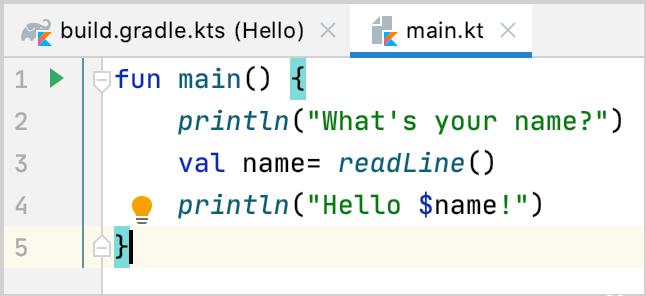
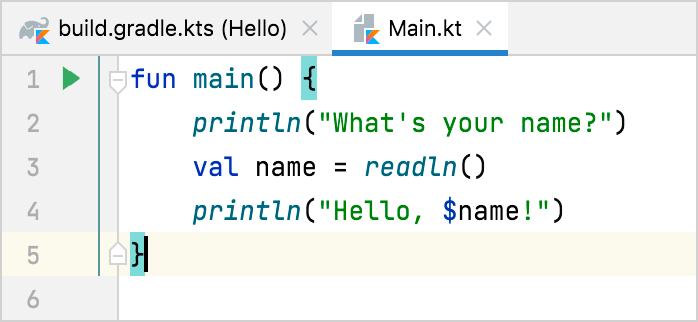
feat: replaced readline functions

diff --git a/docs/topics/competitive-programming.md b/docs/topics/competitive-programming.md
@@ -72,36 +72,28 @@ the straightforward imperative version of a solution to the problem can be writt
 
 ```kotlin
 fun main() {
-    var n = readLine()!!.toInt() // read integer from the input
+    var n = readln() // read integer from the input
     val reached = HashSet<Int>() // a mutable hash set 
     while (reached.add(n)) n = f(n) // iterate function f
     println(reached.size) // print answer to the output
 }
 ```
+{kotlin-min-compiler-version="1.6"}
 
-Note the use of Kotlin's 
-[null-assertion operator](null-safety.md#the-operator) `!!`
-after the [readLine()](https://kotlinlang.org/api/latest/jvm/stdlib/kotlin.io/read-line.html) function call. 
-Kotlin's `readLine()` function is defined to return a 
-[nullable type](null-safety.md#nullable-types-and-non-null-types)
-`String?` and returns `null` on the end of the input, which explicitly forces the developer to handle the 
-case of missing input.
- 
-There is no need to handle the case of misformatted input in competitive programming. 
-In competitive programming, an input format is always precisely specified and the actual input cannot deviate from 
-the input specification in the problem statement. That's what the null-assertion operator `!!` essentially does &mdash; 
-it asserts that the input string is present and throws an exception otherwise. Likewise, 
-the [String.toInt()](https://kotlinlang.org/api/latest/jvm/stdlib/kotlin.text/to-int.html) 
+There is no need to handle the case of misformatted input in competitive programming. An input format is always precisely
+specified in competitive programming, and the actual input cannot deviate from the input specification in the problem
+statement. That's why we're using Kotlin's `readln()` function that helps to assert that the input string is present and
+throws an exception otherwise. Likewise, the [String.toInt()](https://kotlinlang.org/api/latest/jvm/stdlib/kotlin.text/to-int.html)
 function throws an exception if the input string is not an integer.
-
+ 
 All online competitive programming events allow the use of pre-written code, so you can define your own library of 
 utility functions that are geared towards competitive programming to make your actual solution code somewhat easier 
 to read and write. You would then use this code as a template for your solutions. For example, you can define 
 the following helper functions for reading inputs in competitive programming:
 
 ```kotlin
-private fun readLn() = readLine()!!
-private fun readInt() = readLn().toInt()
+private fun readInt() = readln().toInt()
+private fun readStr() = readln().toString()
 // etc for other types you'd use in your solutions
 ```
 
@@ -121,9 +113,9 @@ takes a simple greedy algorithm to implement and it can be written using this st
 ```kotlin
 fun main() {
     // read input
-    val n = readLine()!!.toInt()
-    val s = readLine()!!
-    val fl = readLine()!!.split(" ").map { it.toInt() }
+    val n = readln().toInt()
+    val s = readln()
+    val fl = readln().split(" ").map { it.toInt() }
     // define local function f
     fun f(c: Char) = '0' + fl[c - '1']
     // greedily find first and last indices
@@ -139,6 +131,7 @@ fun main() {
     println(ans)
 }
 ```
+{kotlin-min-compiler-version="1.6"}
 
 In this dense code, in addition to collection transformations, you can see such handy Kotlin features as local functions
 and the [elvis operator](null-safety.md#elvis-operator) `?:`
@@ -151,9 +144,8 @@ To make reading the input in competitive programming tasks like this more concis
 you can have the following list of helper input-reading functions:
 
 ```kotlin
-private fun readLn() = readLine()!! // string line
-private fun readInt() = readLn().toInt() // single int
-private fun readStrings() = readLn().split(" ") // list of strings
+private fun readInt() = readln().toInt() // single int
+private fun readStrings() = readln().split(" ") // list of strings
 private fun readInts() = readStrings().map { it.toInt() } // list of ints
 ```
 
@@ -163,7 +155,7 @@ specification in the problem statement line by line:
 ```kotlin
     // read input
     val n = readInt()
-    val s = readLn()
+    val s = readln() 
     val fl = readInts()
 ```
 

diff --git a/docs/topics/native/native-get-started.md b/docs/topics/native/native-get-started.md
@@ -42,15 +42,16 @@ IntelliJ IDEA opens the **Run** tab and shows the output:
 
    The `src` directory contains the Kotlin source files and resources. The file `main.kt` includes sample code that prints "Hello, Kotlin/Native!" using the [`println()`](https://kotlinlang.org/api/latest/jvm/stdlib/stdlib/kotlin.io/println.html) function.
 
-2. Add code to read the input. Use the [`readLine()`](https://kotlinlang.org/api/latest/jvm/stdlib/kotlin.io/read-line.html) function to read the input value and assign it to the `name` variable.
+2. Add code to read the input. Use the `readln()` function to read the input value and assign it to the `name` variable.
 
    ```kotlin
    fun main() {
        // Read the input value.
        println("Hello, enter your name:")
-       val name = readLine()
+       val name = readln()
    }
    ```
+   {kotlin-min-compiler-version="1.6"}
 
 3. Eliminate the whitespaces and count the letters:
    * Check that the provided name is not `null` with the [safe call operator `?.`](null-safety.md#safe-calls).
@@ -63,13 +64,14 @@ IntelliJ IDEA opens the **Run** tab and shows the output:
    fun main() {
        // Read the input value.
        println("Hello, enter your name:")
-       val name = readLine()
+       val name = readln()
        // Count the letters in the name.
        name?.replace(" ", "")?.let {
            println("Your name contains ${it.length} letters")
        }
    }
    ```
+   {kotlin-min-compiler-version="1.6"}
 
 4. Report a null value using the [`error()`](https://kotlinlang.org/api/latest/jvm/stdlib/kotlin/error.html) function after the [Elvis operator `?:`](null-safety.md#elvis-operator).
 
@@ -77,13 +79,14 @@ IntelliJ IDEA opens the **Run** tab and shows the output:
    fun main() {
        // Read the input value.
        println("Hello, enter your name:")
-       val name = readLine()
+       val name = readln()
        // Count the letters in the name.
        name?.replace(" ", "")?.let {
            println("Your name contains ${it.length} letters")
        } ?: error("Error while reading input from the terminal: the value can't be null.")
    }
    ```
+   {kotlin-min-compiler-version="1.6"}
 
 5. Save the changes and run the application.
 
@@ -116,7 +119,7 @@ IntelliJ IDEA opens the **Run** tab and shows the output:
    fun main() {
        // Read the input value.
        println("Hello, enter your name:")
-       val name = readLine()
+       val name = readln()
        // Count the letters in the name.
        name?.replace(" ", "")?.let {
            println("Your name contains ${it.length} letters")
@@ -125,6 +128,7 @@ IntelliJ IDEA opens the **Run** tab and shows the output:
        } ?: error("Error while reading input from the terminal: the value can't be null.")
    }
    ```
+   {kotlin-min-compiler-version="1.6"}
 
 3. Save the changes and run the application.
 

diff --git a/docs/topics/jvm/jvm-get-started.md b/docs/topics/jvm/jvm-get-started.md
@@ -16,31 +16,32 @@ Once you've installed IntelliJ IDEA, it's time to create your first Kotlin appli
    
    By default, your project will use the Gradle build system with Kotlin DSL.
 
-3. Go through and accept the default configuration, then click **Finish**.
+4. Go through and accept the default configuration, then click **Finish**.
   
    ![Configure a console application](jvm-new-project-2.png) 
 
    Your project will open. By default, you see the file `build.gradle.kts`, which is the build script created by the Project 
    Wizard based on your configuration. It includes the `kotlin("jvm")` plugin and dependencies required for your console application.
 
-3. Open the `main.kt` file in `src/main/kotlin`.  
+5. Open the `main.kt` file in `src/main/kotlin`.  
    The `src` directory contains Kotlin source files and resources. The `main.kt` file contains sample code that will print 
    `Hello World!`.
 
    ![main.kt with main fun](jvm-main-kt-initial.png){width=600}
 
-4. Modify the code so that it requests your name and says `Hello` to you specifically, and not to the whole world.  
+6. Modify the code so that it requests your name and says `Hello` to you specifically, and not to the whole world.  
    
-   * Introduce a local variable `name` with the keyword `val`. It will get its value from an input where you will enter your name – `readLine()`.
+   * Introduce a local variable `name` with the keyword `val`. It will get its value from an input where you will enter your name – `readln()`.
    * Use a string template by adding a dollar sign `$` before this variable name directly in the text output like this – `$name`.
    
    ```kotlin
    fun main() {
        println("What's your name?")
-       val name= readLine()
-       println("Hello $name!")
+       val name= readln()
+       println("Hello, $name!")
    }
    ```
+   {kotlin-min-compiler-version="1.6"}
 
    ![Updated main fun](jvm-main-kt-updated.png){width=400}
 
